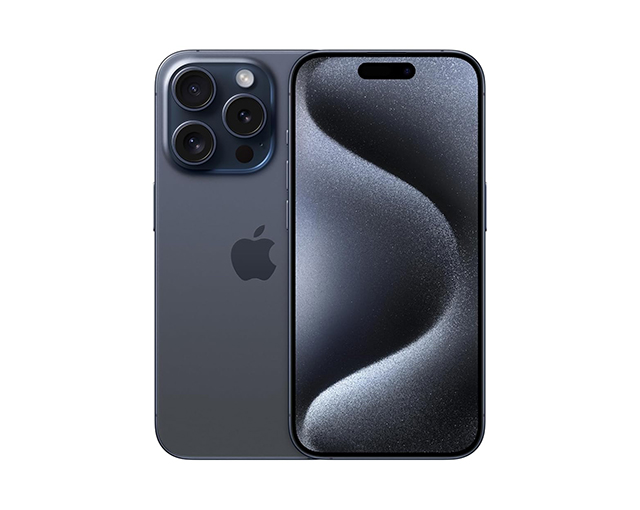
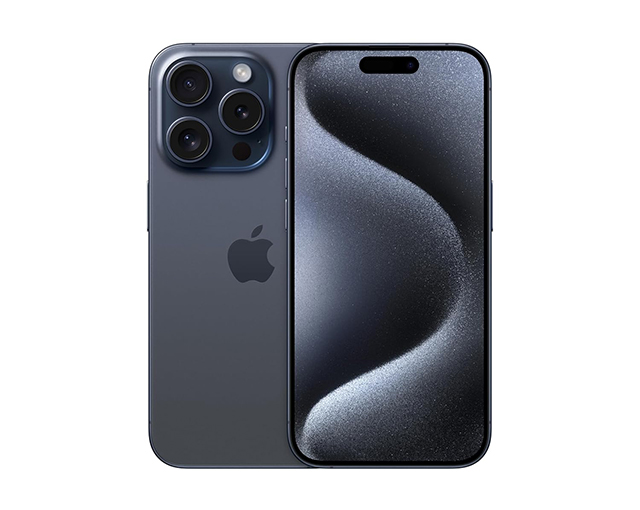
Added new products

Changed region(s): [[0.2188, 0.0588, 0.7812, 0.9412], [0.3438, 0.4706, 0.4062, 0.5588], [0.375, 0.4412, 0.4062, 0.4706]]

diff --git a/backend/data/products.ts b/backend/data/products.ts
@@ -13,8 +13,80 @@
 
 const productsData = [
   {
+    name: "Apple iPhone 15 Pro Max Blue Titanium",
+    image: "/images/product_categories/phones/iphone15.jpg",
+    description:
+      "Introducing the iPhone 15 Pro. A transformative triple-camera system that adds tons of capability without complexity. An unprecedented leap in battery life",
+    brand: "Apple",
+    category: "smart_phones",
+    price: 599.99,
+    countInStock: 7,
+    rating: 4.0,
+    numReviews: 8,
+  },
+  {
+    name: "Samsung Galaxy Z Flip4 Light Blue",
+    image: "/images/product_categories/phones/samsung_fold.jpg",
+    description:
+      "Introducing the iPhone 13 Pro. A transformative triple-camera system that adds tons of capability without complexity. An unprecedented leap in battery life",
+    brand: "Samsung",
+    category: "smart_phones",
+    price: 599.99,
+    countInStock: 7,
+    rating: 5.0,
+    numReviews: 9,
+  },
+  {
+    name: "OnePlus 10 Pro Emerald Green",
+    image: "/images/product_categories/phones/one_plus.jpg",
+    description:
+      "Introducing the iPhone 13 Pro. A transformative triple-camera system that adds tons of capability without complexity. An unprecedented leap in battery life",
+    brand: "OnePlus",
+    category: "smart_phones",
+    price: 299.99,
+    countInStock: 7,
+    rating: 3.5,
+    numReviews: 8,
+  },
+  {
+    name: "Samsung Galaxy S23 White",
+    image: "/images/product_categories/phones/samsung_galaxy2.jpg",
+    description:
+      "Introducing the iPhone 13 Pro. A transformative triple-camera system that adds tons of capability without complexity. An unprecedented leap in battery life",
+    brand: "Samsung",
+    category: "smart_phones",
+    price: 349.99,
+    countInStock: 7,
+    rating: 3.0,
+    numReviews: 4,
+  },
+  {
+    name: "Samsung Galaxy S22 Ultra Burgundy",
+    image: "/images/product_categories/phones/samsung_galaxy.jpg",
+    description:
+      "Introducing the iPhone 13 Pro. A transformative triple-camera system that adds tons of capability without complexity. An unprecedented leap in battery life",
+    brand: "Samsung",
+    category: "smart_phones",
+    price: 399.99,
+    countInStock: 7,
+    rating: 4.0,
+    numReviews: 8,
+  },
+  {
+    name: "Xiaomi 13 Pro Ceramic Black",
+    image: "/images/product_categories/phones/mi.jpg",
+    description:
+      "Introducing the iPhone 13 Pro. A transformative triple-camera system that adds tons of capability without complexity. An unprecedented leap in battery life",
+    brand: "Xaomi",
+    category: "smart_phones",
+    price: 299.99,
+    countInStock: 7,
+    rating: 4.0,
+    numReviews: 8,
+  },
+  {
     name: "Airpods Wireless Bluetooth Headphones",
-    image: "/images/airpods.jpg",
+    image: "/images/product_categories/earphones/airpod.jpg",
     description:
       "Bluetooth technology lets you connect it with compatible devices wirelessly High-quality AAC audio offers immersive listening experience Built-in microphone allows you to take calls while working",
     brand: "Apple",
@@ -25,32 +97,69 @@ const productsData = [
     numReviews: 12,
   },
   {
-    name: "iPhone 13 Pro 256GB Memory",
-    image: "/images/phone.jpg",
+    name: "Noise Buds VS104 Wireless",
+    image: "/images/product_categories/earphones/noise.jpg",
     description:
-      "Introducing the iPhone 13 Pro. A transformative triple-camera system that adds tons of capability without complexity. An unprecedented leap in battery life",
+      "Bluetooth technology lets you connect it with compatible devices wirelessly High-quality AAC audio offers immersive listening experience Built-in microphone allows you to take calls while working",
     brand: "Apple",
-    category: "smart_phones",
-    price: 599.99,
-    countInStock: 7,
-    rating: 4.0,
-    numReviews: 8,
+    category: "earphones",
+    price: 15.99,
+    countInStock: 10,
+    rating: 4,
+    numReviews: 12,
   },
   {
-    name: "Cannon EOS 80D DSLR Camera",
-    image: "/images/camera.jpg",
+    name: "OnePlus Nord Wireless Buds",
+    image: "/images/product_categories/earphones/oneplus.jpg",
+    description:
+      "Bluetooth technology lets you connect it with compatible devices wirelessly High-quality AAC audio offers immersive listening experience Built-in microphone allows you to take calls while working",
+    brand: "Apple",
+    category: "earphones",
+    price: 50.99,
+    countInStock: 10,
+    rating: 3.5,
+    numReviews: 12,
+  },
+
+  {
+    name: "Sony Alpha ILCE 6100L 24.2 MP Camera",
+    image: "/images/product_categories/cameras/sony.jpg",
     description:
       "Characterized by versatile imaging specs, the Canon EOS 80D further clarifies itself using a pair of robust focusing systems and an intuitive design",
-    brand: "Cannon",
+    brand: "Sony",
     category: "cameras",
     price: 929.99,
     countInStock: 5,
+    rating: 4,
+    numReviews: 12,
+  },
+  {
+    name: "Fujifilm Instax Square SQ1 Camera",
+    image: "/images/product_categories/cameras/fuji.jpg",
+    description:
+      "Characterized by versatile imaging specs, the Canon EOS 80D further clarifies itself using a pair of robust focusing systems and an intuitive design",
+    brand: "Fuji",
+    category: "cameras",
+    price: 675.99,
+    countInStock: 7,
     rating: 3,
     numReviews: 12,
   },
   {
+    name: "Canon Digital Camera EOS R50 RF-S18",
+    image: "/images/product_categories/cameras/canon.jpg",
+    description:
+      "Characterized by versatile imaging specs, the Canon EOS 80D further clarifies itself using a pair of robust focusing systems and an intuitive design",
+    brand: "Canon",
+    category: "cameras",
+    price: 929.99,
+    countInStock: 2,
+    rating: 3.5,
+    numReviews: 6,
+  },
+  {
     name: "Sony Playstation 5 White Version",
-    image: "/images/playstation.jpg",
+    image: "/images/product_categories/game_consoles/playstation.jpg",
     description:
       "The ultimate home entertainment center starts with PlayStation. Whether you are into gaming, HD movies, television, music",
     brand: "Sony",
@@ -58,30 +167,42 @@ const productsData = [
     price: 399.99,
     countInStock: 11,
     rating: 5,
-    numReviews: 12,
+    numReviews: 6,
   },
   {
-    name: "Logitech G-Series Gaming Mouse",
-    image: "/images/mouse.jpg",
+    name: "MICROMINI X-Ninja D007 Handheld Game",
+    image: "/images/product_categories/game_consoles/micromini.jpg",
     description:
-      "Get a better handle on your games with this Logitech LIGHTSYNC gaming mouse. The six programmable buttons allow customization for a smooth playing experience",
-    brand: "Logitech",
-    category: "smart_phones",
-    price: 49.99,
-    countInStock: 7,
-    rating: 3.5,
-    numReviews: 10,
-  },
-  {
-    name: "Amazon Echo Dot 3rd Generation",
-    image: "/images/alexa.jpg",
-    description:
-      "Meet Echo Dot - Our most popular smart speaker with a fabric design. It is our most compact smart speaker that fits perfectly into small space",
-    brand: "Amazon",
-    category: "cameras",
-    price: 29.99,
-    countInStock: 0,
+      "The ultimate home entertainment center starts with PlayStation. Whether you are into gaming, HD movies, television, music",
+    brand: "Micromini",
+    category: "game_consoles",
+    price: 150.99,
+    countInStock: 11,
     rating: 4,
+    numReviews: 8,
+  },
+  {
+    name: "Xbox Series X Black Game Console",
+    image: "/images/product_categories/game_consoles/xbox.jpg",
+    description:
+      "The ultimate home entertainment center starts with PlayStation. Whether you are into gaming, HD movies, television, music",
+    brand: "Microsoft",
+    category: "game_consoles",
+    price: 599.99,
+    countInStock: 11,
+    rating: 5,
+    numReviews: 9,
+  },
+  {
+    name: "Retroid Pocket Flip Retro Game",
+    image: "/images/product_categories/game_consoles/retroid.jpg",
+    description:
+      "The ultimate home entertainment center starts with PlayStation. Whether you are into gaming, HD movies, television, music",
+    brand: "Retroid",
+    category: "game_consoles",
+    price: 100.99,
+    countInStock: 11,
+    rating: 3.5,
     numReviews: 12,
   },
 ];

diff --git a/frontend/src/components/ProductItem/ProductItem.module.css b/frontend/src/components/ProductItem/ProductItem.module.css
@@ -10,6 +10,14 @@
   flex-direction: column;
 }
 
+#product-item-container img {
+  scale: 0.87;
+}
+
+#product-item-container p {
+  font-size: 1rem;
+}
+
 /*Setting hover to other elements when main container is hovered*/
 #product-item-container:hover {
   box-shadow: 0 0 0px 1.5px var(--light-gray);
@@ -49,18 +57,18 @@
   text-decoration: none;
   margin-top: 1rem;
   padding: 0;
-  padding-right: 2.5rem;
+  width: 13rem;
   font-weight: 400;
   line-height: 1.45rem;
 }
 
-#product-item-container h3 {
+.product-item-price {
   font-weight: 500;
   margin: 1rem 0;
 }
 
 .product-item-name,
-#product-item-container h3 {
+.product-item-price {
   font-size: 1.1rem;
   display: inline-block;
   margin-left: 1.5rem;

diff --git a/backend/data/usersList.ts b/backend/data/usersList.ts
@@ -4,19 +4,19 @@ const usersList = [
   {
     name: "Admin User",
     email: "admin@email.com",
-    password: bcrypt.hashSync("123456", 10),
+    password: bcrypt.hashSync("12345678", 10),
     isAdmin: true,
   },
   {
     name: "John Doe",
     email: "john@email.com",
-    password: bcrypt.hashSync("123456", 10),
+    password: bcrypt.hashSync("12345678", 10),
     isAdmin: true,
   },
   {
     name: "Lorem Doe",
     email: "lorem@email.com",
-    password: bcrypt.hashSync("123456", 10),
+    password: bcrypt.hashSync("12345678", 10),
     isAdmin: false,
   },
 ];

diff --git a/frontend/src/screens/ProductDetailsScreen/ProductBlock/ProductBlock.tsx b/frontend/src/screens/ProductDetailsScreen/ProductBlock/ProductBlock.tsx
@@ -46,11 +46,9 @@ const ProductBlock: React.FC<
 
   return (
     <div className={`${className} ${styles["product-details-container"]}`}>
-      <img
-        src={product.image}
-        alt={product.name}
-        className={styles["product-image"]}
-      />
+      <div className={styles["product-image-container"]}>
+        <img src={product.image} alt={product.name} />
+      </div>
 
       <div className={styles["product-details"]}>
         <h1 className={styles["product-title"]}>{product.name}</h1>

diff --git a/frontend/src/screens/AllProductsScreen/AllProductsScreen.tsx b/frontend/src/screens/AllProductsScreen/AllProductsScreen.tsx
@@ -115,7 +115,9 @@ const AllProductsScreen: React.FC<{ showTrendingProducts?: boolean }> = ({
       ) : (
         <div className={styles["product-items"]}>
           {products?.map((product, index) => {
-            if (showTrendingProducts && index > 3) return;
+            if (showTrendingProducts && index % 3 === 0 && index !== 0) {
+              return;
+            }
 
             return <ProductItem product={product} key={product._id} />;
           })}

diff --git a/frontend/src/screens/ProductDetailsScreen/ProductBlock/ProductBlock.module.css b/frontend/src/screens/ProductDetailsScreen/ProductBlock/ProductBlock.module.css
@@ -6,11 +6,21 @@
   /* justify-content: center; */
 }
 
-.product-image {
+.product-image-container {
   width: 45%;
-  object-fit: cover;
   border-radius: var(--border-radius);
   box-shadow: 0px 0px 20px rgba(0, 0, 0, 0.07);
+  display: flex;
+  align-items: center;
+  justify-content: center;
+  overflow: hidden;
+}
+
+.product-image-container img {
+  min-width: 100%;
+  min-height: 100%;
+  scale: 0.95;
+  object-fit: cover;
 }
 
 .product-details {

diff --git a/frontend/src/screens/AuthScreen/LoginScreen/LoginScreen.tsx b/frontend/src/screens/AuthScreen/LoginScreen/LoginScreen.tsx
@@ -26,7 +26,7 @@ const LoginScreen = () => {
   const {
     enteredValue: inputPassword,
     valueInputHandler: passwordInputHandler,
-  } = userFormValidator("123456");
+  } = userFormValidator("12345678");
 
   const errorText = (
     <p className="text-danger text-start">Invalid email or password!</p>

diff --git a/frontend/src/screens/HomeScreen/HomeScreen.tsx b/frontend/src/screens/HomeScreen/HomeScreen.tsx
@@ -8,7 +8,7 @@ const HomeScreen = () => {
   return (
     <div className={styles["home-screen-container"]}>
       <ProductShowcase />
-      <AllProductsScreen />
+      <AllProductsScreen showTrendingProducts={true} />
       <InfoBanner />
       <UserReviews />
     </div>

diff --git a/frontend/src/components/ProductItem/ProductItem.tsx b/frontend/src/components/ProductItem/ProductItem.tsx
@@ -19,7 +19,7 @@ const ProductItem: React.FC<{ product: ProductType }> = ({ product }) => {
         <p>{product.name}</p>
       </Link>
 
-      <h3>${product.price}</h3>
+      <p className={styles["product-item-price"]}>${product.price}</p>
     </Card>
   );
 };
